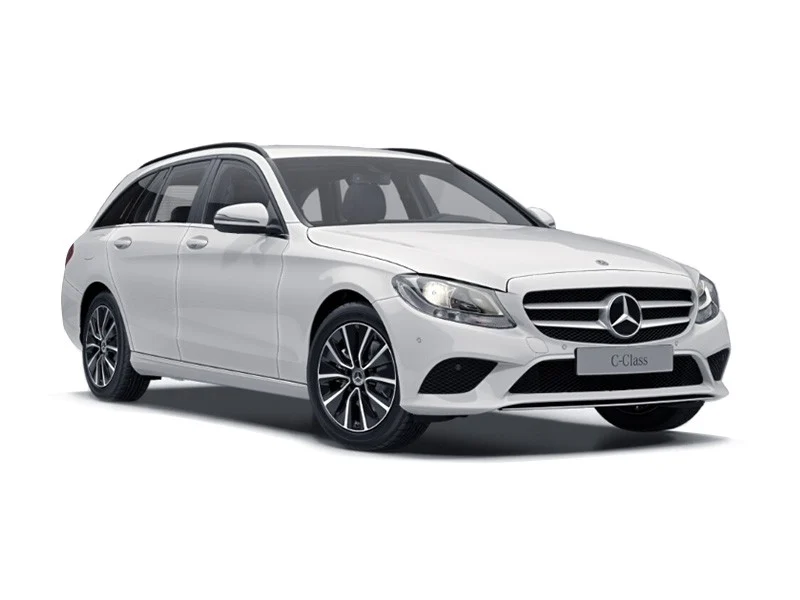
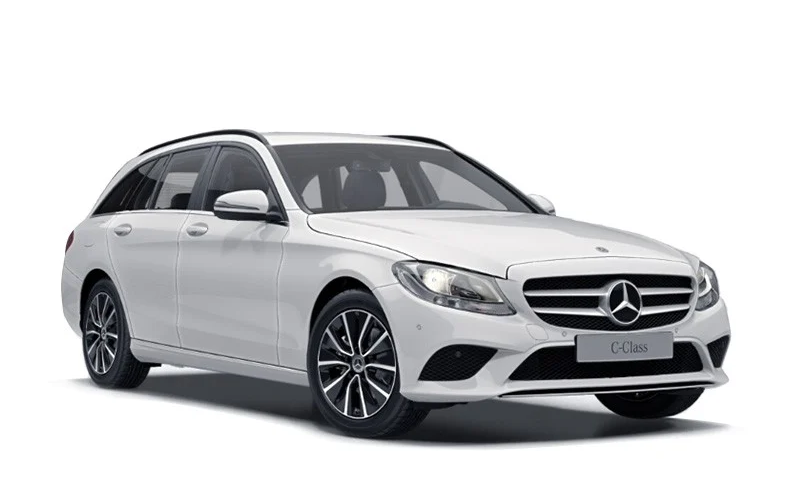
dd

diff --git a/index.html b/index.html
@@ -57,7 +57,7 @@
                     
                 </div>
                 <div>
-                    <img src="img/cars/Taxi-PNG-Image-33186.png" alt="">
+                    <img src="img/Main.png" alt="">
                 </div>
             </div>
             <div>
@@ -128,7 +128,7 @@
     </section>
     <!-- SECOND -->
     <section id="cars">
-      <h1 class="our_text">Our <span style="color: #f4db31;">Taxi</span></h1>
+      <h1 class="our_text">Our <span style="color: #f4db31;">Cars</span></h1>
         <div class="container">
           
           <div class="cars-info">
@@ -179,6 +179,7 @@
         
 
     </section>
+    <!-- INFO  -->
     <section>
       <div class="container">
         <div class="ride_main">
@@ -229,9 +230,45 @@
       </div>
 
     </section>
-    <section class="bg1">
+    <!-- --------- -->
+    <!-- FOOTER -->
+    <footer id="footer">
+      <div class="section_footer ">
+        <div class="container"> 
+            <div class="footer_section_2">
+              <div class="row">
+                  <div class="col-sm-6 col-md-6 col-lg-3">
+                    <h2 class="account_text">Address</h2>
+                    <p class="ipsum_text">It is a long established fact that a reader will be distracted by the readable content of a page when looking at its layout. The point of using Lorem Ipsum is that it has a more-or-less normal distribution of letters, </p>
+                  </div>
+                  <div class="col-sm-6 col-md-6 col-lg-3">
+                    <h2 class="account_text">Links</h2>
+                    <div class="image-icon"><img src="img/bulit-icon.png"><span class="fb_text"><a href="#">Home</span></a></div>
+                    <div class="image-icon"><img src="img/bulit-icon.png"><span class="fb_text"><a href="#">About</span></a></div>
+                    <div class="image-icon"><img src="img/bulit-icon.png"><span class="fb_text"><a href="#">Taxi</span></a></div>
+                    <div class="image-icon"><img src="img/bulit-icon.png"><span class="fb_text"><a href="#">Booking</span></a></div>
+                    <div class="image-icon"><img src="img/bulit-icon.png"><span class="fb_text"><a href="#">Contact Us</span></a></div>
+                  </div>
+                  <div class="col-sm-6 col-md-6 col-lg-3">
+                    <h2 class="account_text">Follow Us</h2>
+                    <div class="image-icon"><img src="img/fb-icon.png"><span class="fb_text"><a href="#">Facebook</a></span></div>
+                    <div class="image-icon"><img src="img/twitter-icon.png"><span class="fb_text"><a href="#">Twitter</a></span></div>
+                    <div class="image-icon"><img src="img/in-icon.png"><span class="fb_text"><a href="#">Linkedin</a></span></div>
+                    <div class="image-icon"><img src="img/youtube-icon.png"><span class="fb_text"><a href="#">Youtube</a></span></div>            
+                    <div class="image-icon"><img src="img/instagram-icon.png"><span class="fb_text"><a href="#">Instagram</a></span></div>
+                  </div>
+            <div class="col-sm-6 col-md-6 col-lg-3">
+              <h2 class="adderess_text">Newsletter</h2>
+              <input type="" class="email_text" placeholder="Enter Your Email" name="Enter Your Email">
+              <button class="subscribr_bt">SUBSCRIBE</button>
+            </div>
+            </div>
+            </div>
+            </div>
+        </div>
+      </div>
 
-    </section>
+    </footer>
     
 </body>
 </html>

diff --git a/css/style.css b/css/style.css
@@ -2,6 +2,7 @@
 
 img {
     width: 100%;
+    height: auto;
 }
 h1 {
     color: white;
@@ -121,4 +122,152 @@ input , select{
     margin-left: 0px;
     border-bottom: 1px solid #000;
 }
-/*  */
+/* FOOTER */
+.account_text {
+    width: 100%;
+    float: left;
+    font-size: 28px;
+    color: #ebebeb;
+    font-weight: bold;
+    padding: 25px 0px;
+}
+
+.image-icon {
+    width: 100%;
+    float: left;
+}
+.image-icon img {
+    width: max-content;
+}
+
+.fb_text {
+    font-size: 12pt;
+    color: #ebebeb;
+    padding-left: 16px;
+}
+
+.fb_text a{ color: #fffcf4; }
+.fb_text a:hover{ color: #fecf3d; }
+
+
+.adderess_text {
+    width: 100%;
+    float: left;
+    font-size: 28px;
+    color: #ebebeb;
+    font-weight: bold;
+    padding: 25px 0px;
+}
+
+.footer_section_2 {
+    width: 100%;
+    float: left;
+    padding-top: 40px;
+}
+
+.section_footer {
+    width: 100%;
+    float: left;
+    background-color: #292828;
+    height: auto;
+    padding-top: 30px;
+    padding-bottom: 30px;
+    margin-top: 90px;
+}
+
+.ipsum_text{
+    font-size: 12pt;
+    color: #ebebeb;
+    margin-left: 0px;
+}
+
+.email_text{
+     width: 100%;
+     float: left;
+    font-size: 12pt;
+    color: #eceaea;
+    background-color: #ffffff;
+    padding: 10px;
+    border-radius: 5px;
+    border: 0px;
+}
+
+.subscribr_bt {
+    width: 60%;
+    float: left;
+    font-size: 16pt;
+    color: #eceaea;
+    background-color: #fecf3d;
+    padding: 5px 0px;
+    border: 0px;
+    text-align: center;
+    margin-top: 20px;
+    font-weight: 600;
+    border-radius: 5px;
+}
+
+.copyright_section{
+    width: 100%;
+    float: left;
+    background-color: #ffffff;
+    height: auto;
+}
+
+.copyright {
+    width: 100%;
+    float: left;
+    font-size: 18px;
+    color: #000;
+    text-align: center;
+    margin-left: 0;
+}
+
+.copyright a{ color: #000; }
+.copyright a:hover{ color: #fecf3d; }
+
+
+#main_slider a.carousel-control-prev {
+    position: absolute;
+    left: 50px;
+    top: 40%;
+    background-color: #f8ca12;
+}
+
+#main_slider .carousel-control-prev, #main_slider .carousel-control-next {
+    width: 65px;
+    height: 65px;
+    background: #fff;
+    opacity: 1;
+    font-size: 30px;
+    color: #091e30;
+    border-radius: 100%;
+}
+
+
+#main_slider a.carousel-control-next {
+    position: absolute;
+    left: 50px;
+    top: 55%;
+}
+#main_slider .carousel-control-prev, #main_slider .carousel-control-next {
+    width: 65px;
+    height: 65px;
+    background: #fff;
+    opacity: 1;
+    font-size: 30px;
+    color: #000;
+    border-radius: 100%;
+}
+
+#main_slider .carousel-control-prev:hover, #main_slider .carousel-control-next:hover, #main_slider .carousel-control-prev:focus, #main_slider .carousel-control-next:focus {
+    background: #f8ca12;
+    color: #fff;
+}
+
+#main_slider .carousel-control-prev:hover, #main_slider .carousel-control-next:hover, #main_slider .carousel-control-prev:focus, #main_slider .carousel-control-next:focus {
+    background: #f8ca12;
+    color: #fff;
+}
+
+
+
